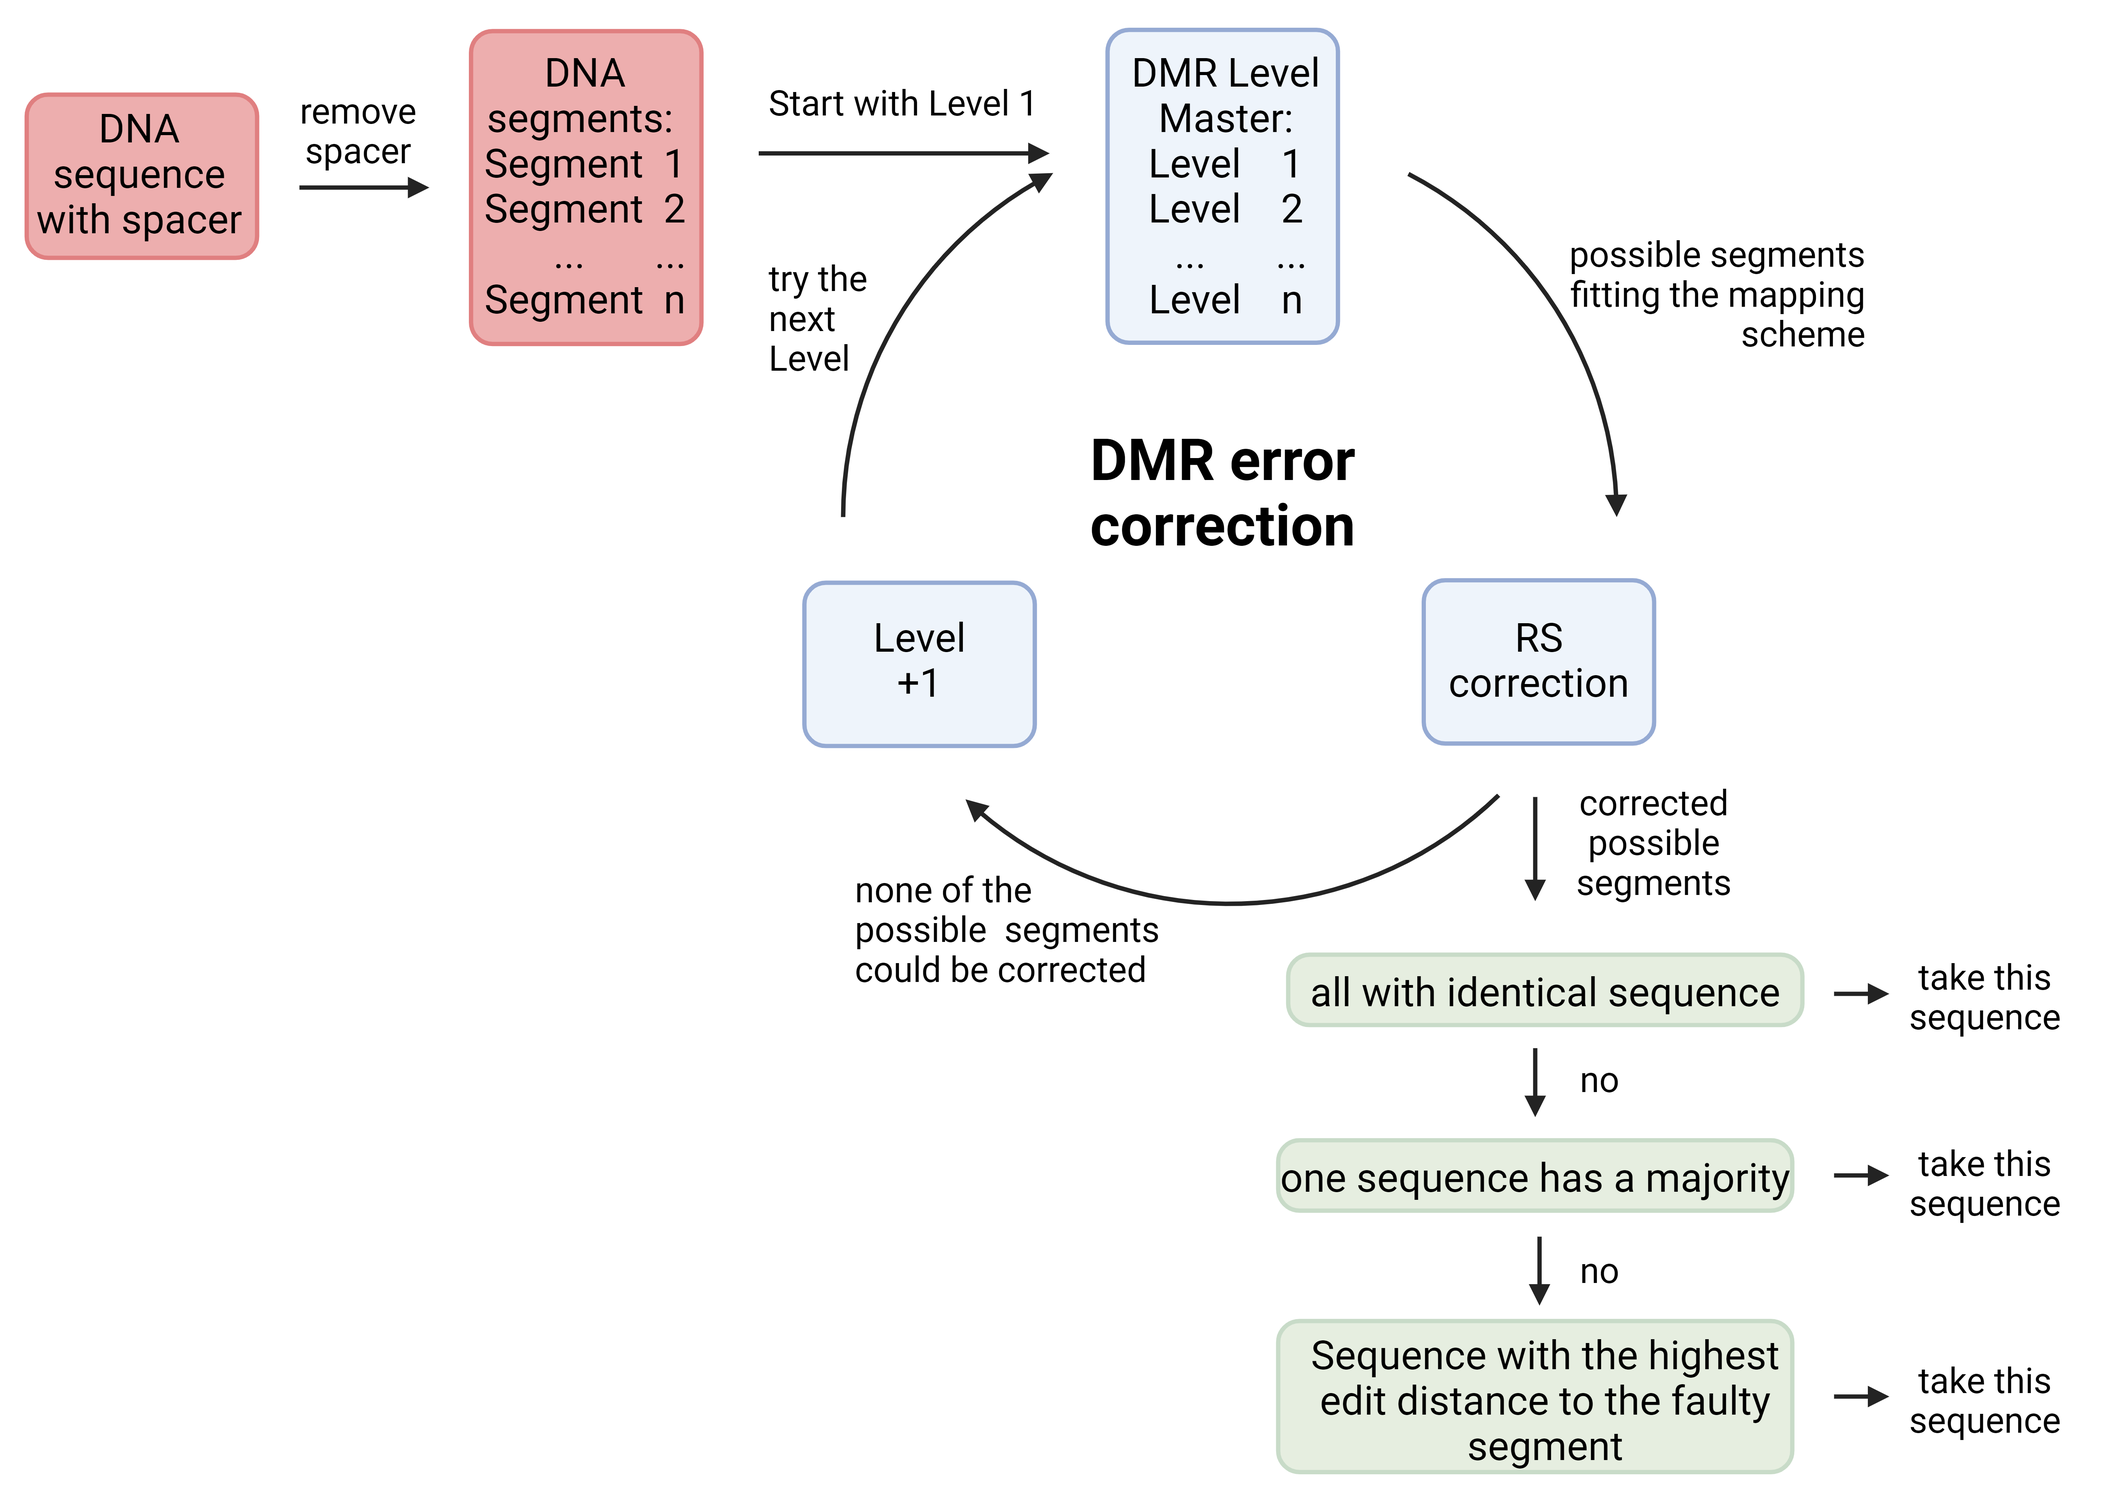
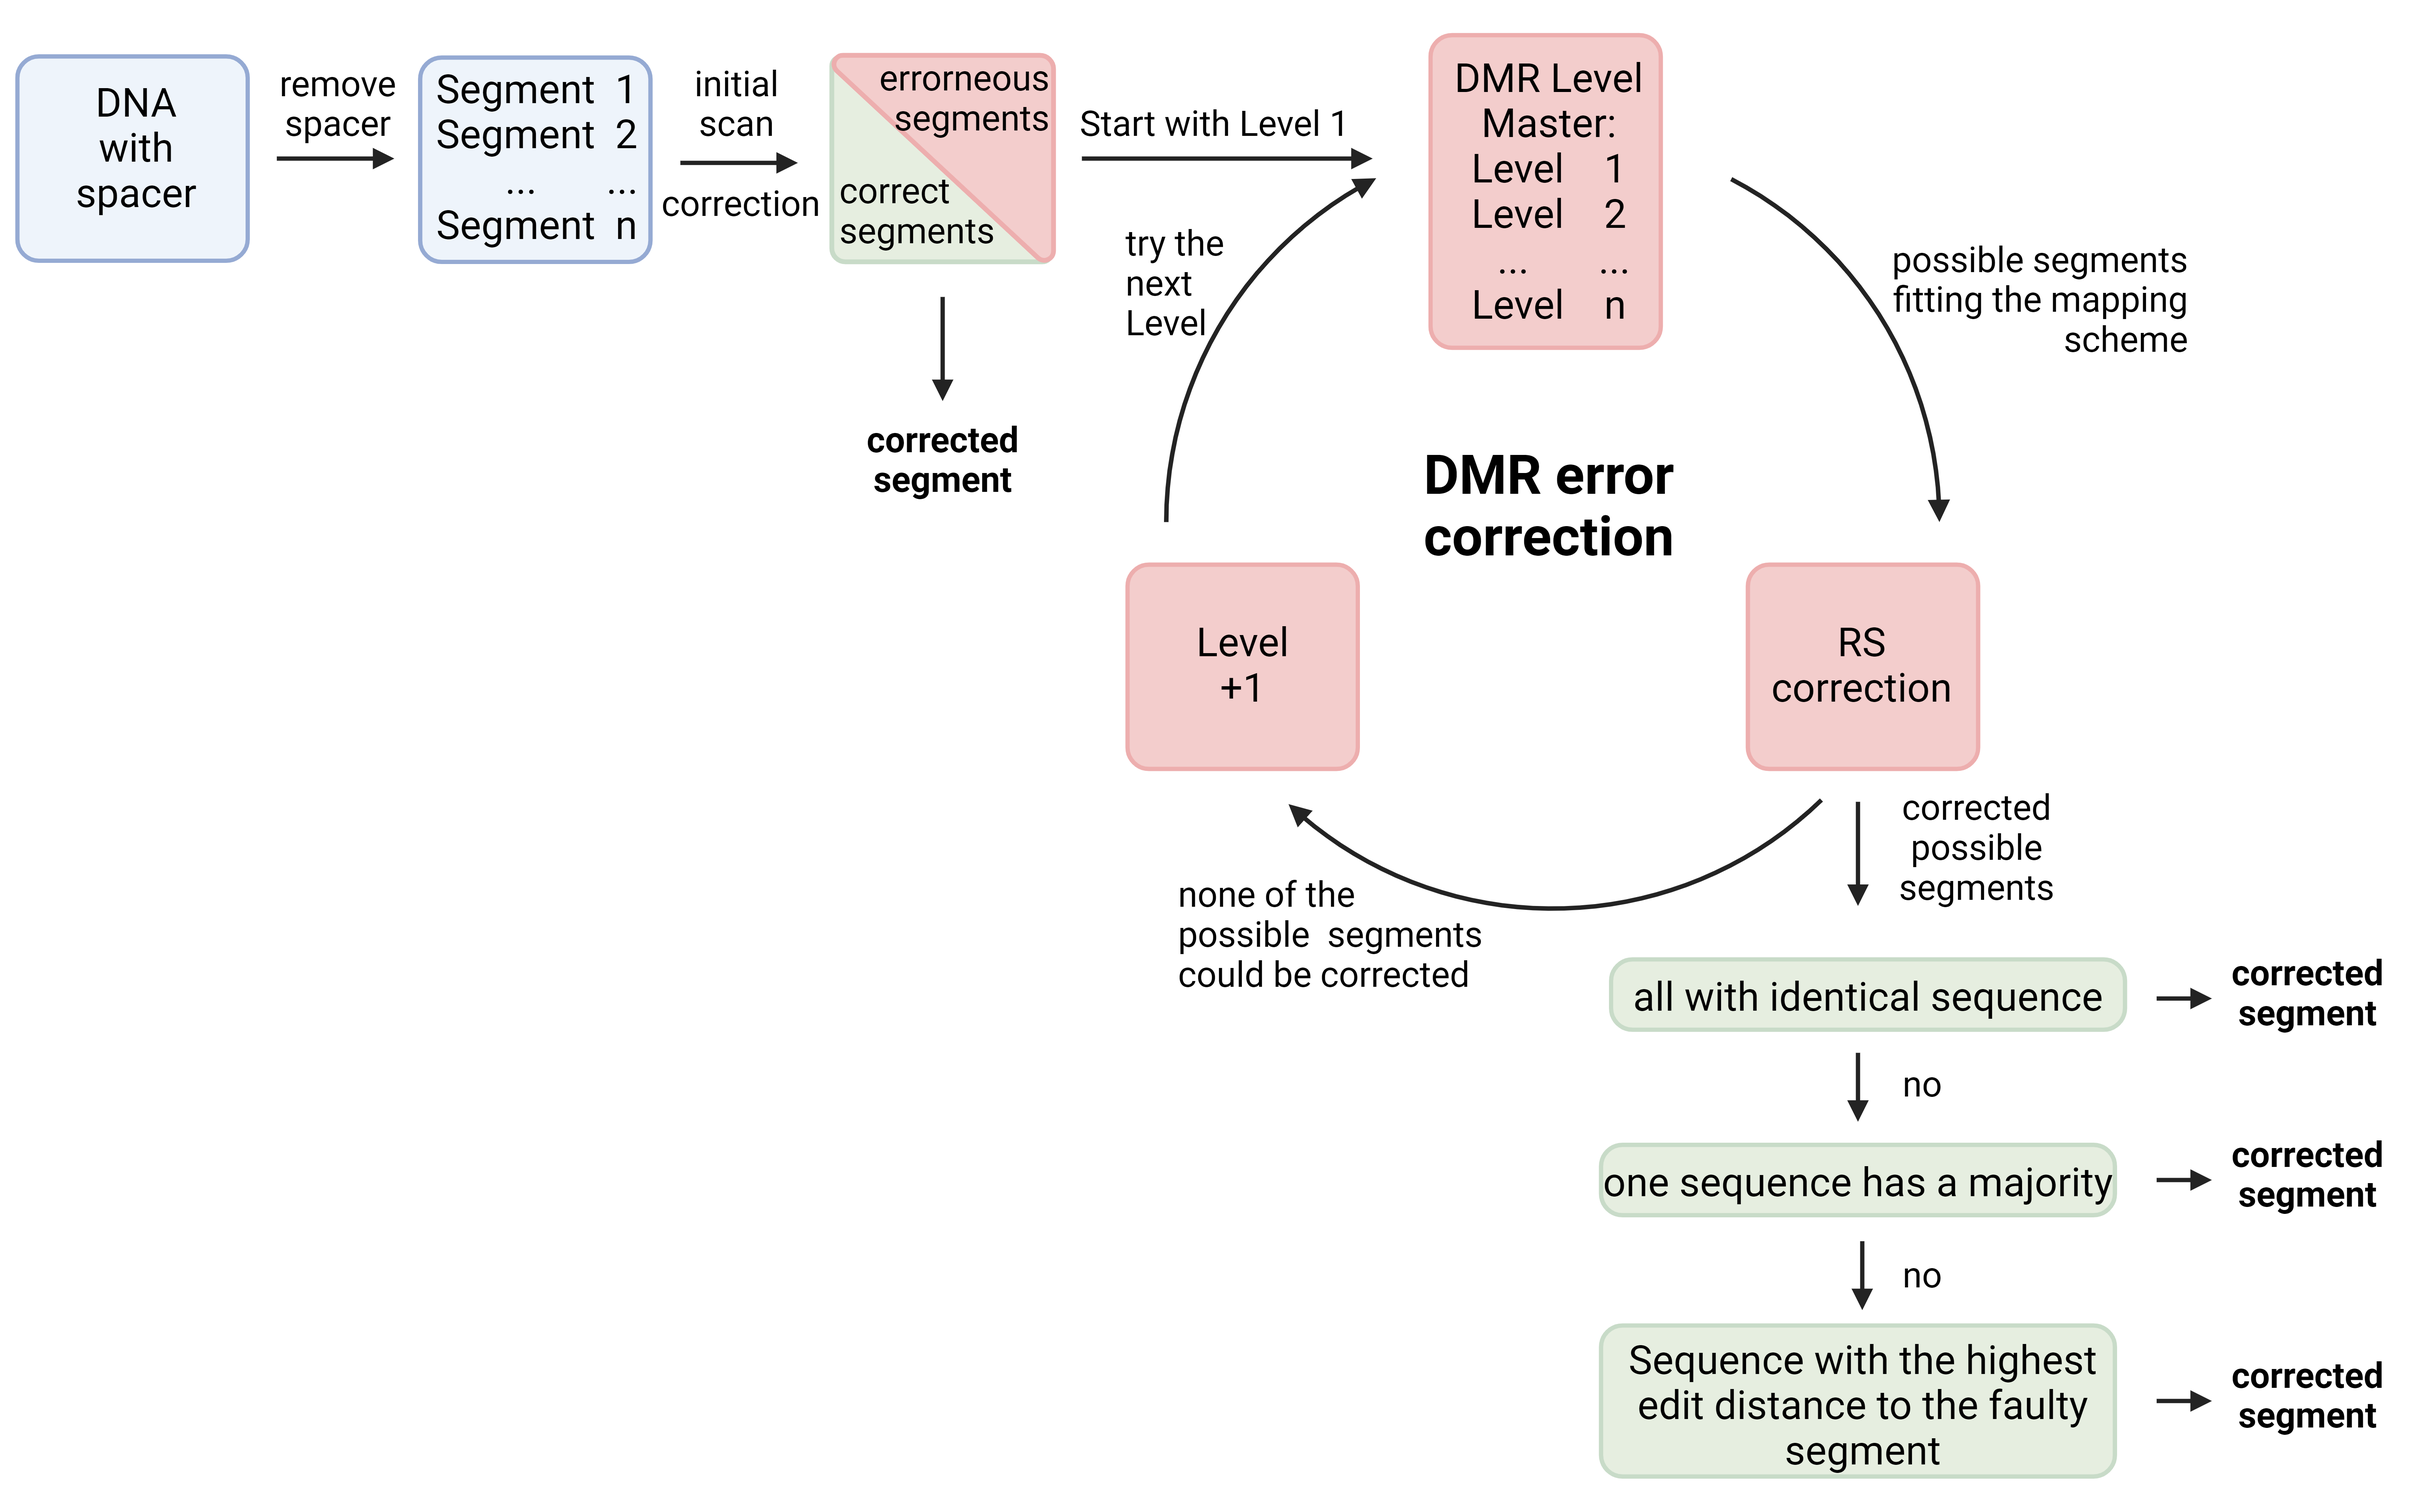
Update paper

diff --git a/paper.md b/paper.md
@@ -74,21 +74,30 @@ repair the errors. To do this, the mapping table is consulted and all possible c
 identified 2-mers, only those that show at least 1 matching base to the faulty 2-mere are tested. The possible sequences are checked using the RS code 
 to correct them. This step determines whether the possibilities found are correct or not. The subsequent levels are designed in such a way that more and more 
 possibilities are found if no correction has been made in the previous level. For the correction, the levels must be adapted and expanded accordingly so that 
-an optimal correction can be achieved. Figure \autoref{fig:level_design} shows the schematic illustration of the described DMR correction.     
+an optimal correction can be achieved. \autoref{fig:level_design} shows the schematic illustration of the described DMR correction.     
 
 The current code was developed internally as part of the BIOSYNTH project and is now being published as open software. The current designed levels are only 
 suitable for the correction of substitution errors, but it is possible to extend them for the correction of insertion and deletion errors. 
 The developed DMR method was compared with the RS method by encoding the small Fraunhofer logo with the segmented Bitarray encoding method using different 
 amounts of error-correcting symbols. Substitution errors were then added to the encoded DNA and decoded. A total of 20 trials for DMR and 50 trials for RS 
-were performed per setting. Figure \autoref{fig:error_correction} shows the results of this comparison and shows that the correction with the DMR scheme 
+were performed per setting. \autoref{fig:error_correction} shows the results of this comparison and shows that the correction with the DMR scheme 
 produces higher edit distances than the correction with RS, which proves the more effective correction of substitution errors. 
 
 
 # Figures
 
-![Schematic illustration of the dmr error correction.\label{fig:level_design}](dmr_level_design.png)
+![Schematic illustration of the dmr error correction. Firstly, the spacers are removed from the DNA sequence and the segments are initially scanned for correct 
+and incorrect sequences. The incorrect segments then enter the DMR correction process. The levels run attempt to create segments that match the mapping schema, 
+and these segments are checked with RS. If the check with RS does not work, an attempt is made to correct the incorrect segment with the next level.  
+If the check works, all corrected possible segments are analysed. If they are all the same or one segment has the majority, it is accepted as corrected. 
+If none of the segments stand out by majority, the segment with the greatest similarity to the incorrect segment is assumed to be corrected.
+\label{fig:level_design}](dmr_level_design.png)
 
-![Comparison of DMR and RS correction with different settings and error rates of the bitarray segmentation coding method.\label{fig:error_correction}](DMR(n=20)_RS(n=50)_correction_with_bitarray_segmentation.png)
+![Comparison of DMR and RS correction with different settings and error rates of the bit array segmentation coding method. The simulation of the DMR correction
+is shown on the left and was performed with 20 trials. The simulation with RS is shown on the right and was performed with 50 trials. In both diagrams, fully 
+corrected images with an edit distance of 1 are shown in blue and erroneous images with a smaller edit distance are shown in red. The coding was carried out
+with the help of a bit array segmentation. Here, the image is first read in and then the pixels are divided into segments. The individual segments are then 
+compressed and translated. \label{fig:error_correction}](DMR(n=20)_RS(n=50)_correction_with_bitarray_segmentation.png)
 
 # Acknowledgements
 
